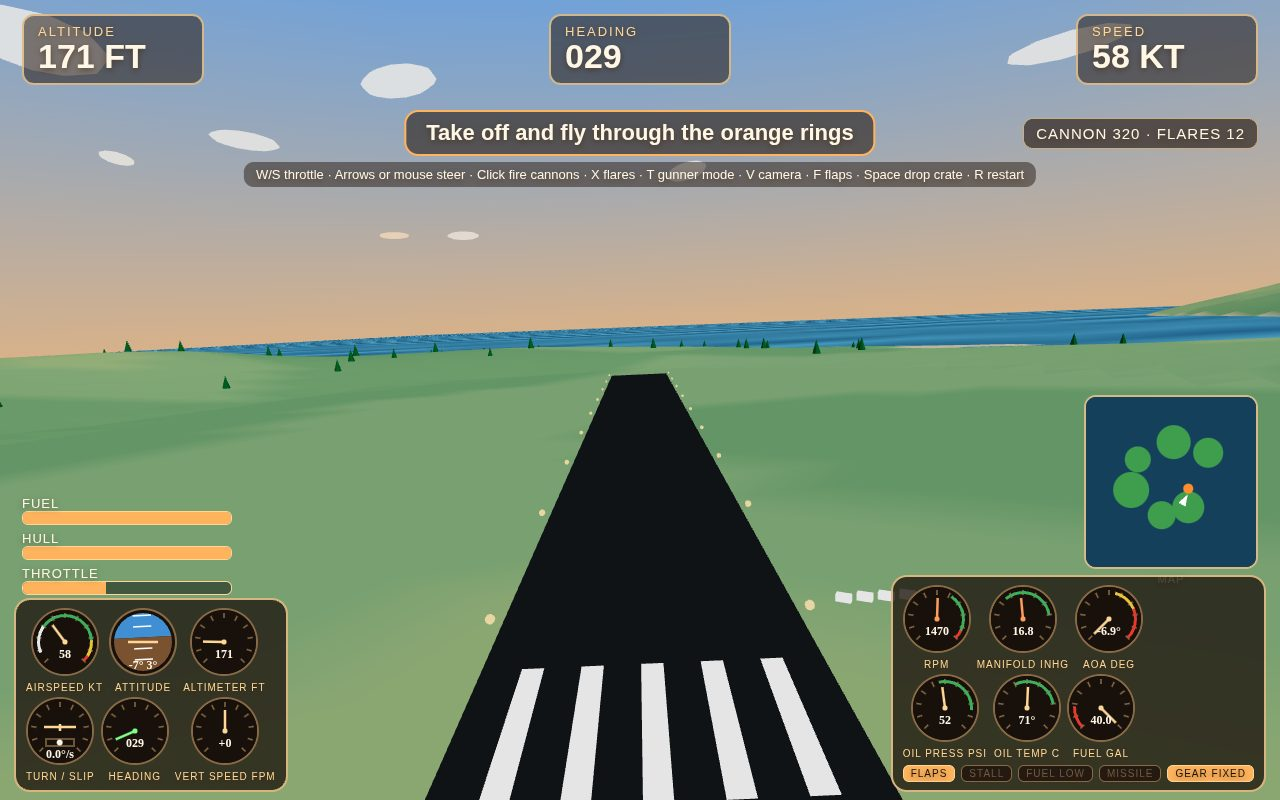
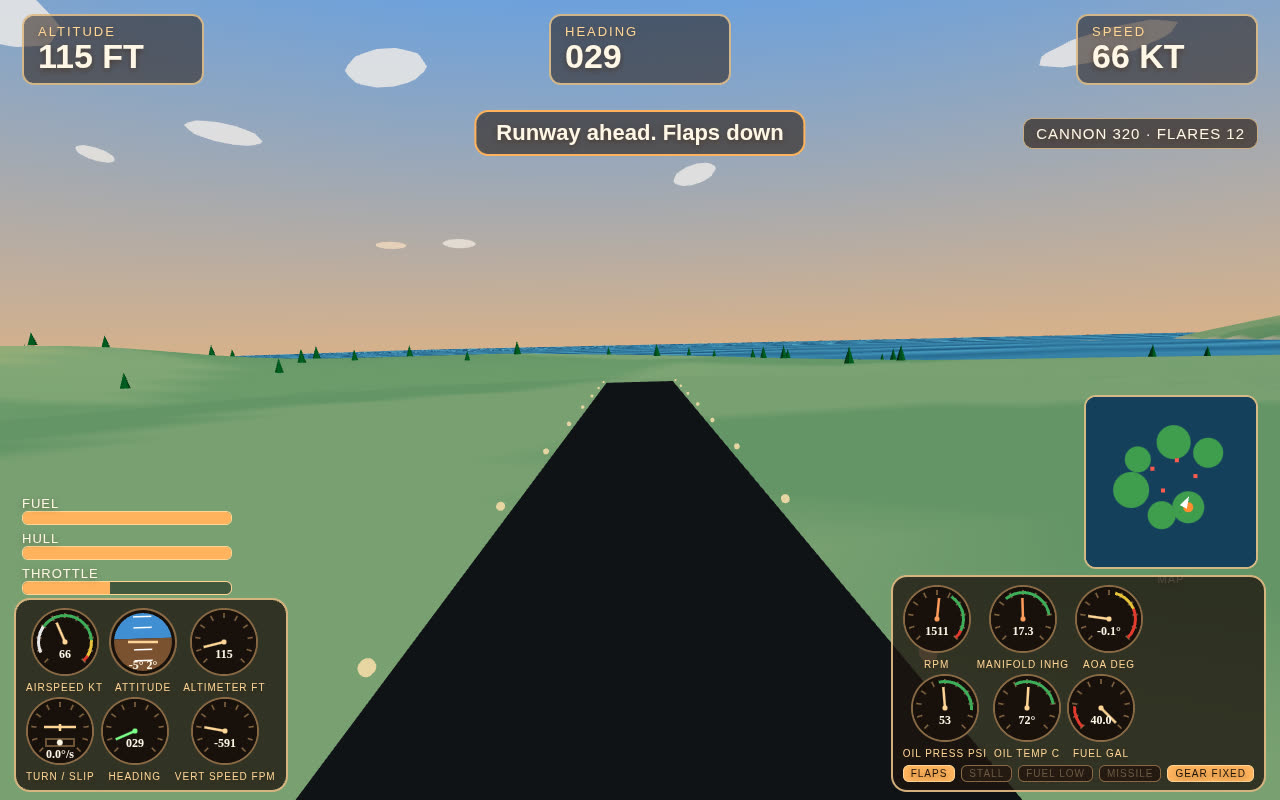
Reshoot the four stills so the sortie reads at a glance.
The cover lines the gunship up on an orange ring, the cockpit looks down the runway with flaps out, the gunner sight sits on the west battery, and the grade sits above the aircraft on the strip. Altitude, speed, and heading stay in frame.

diff --git a/game/src/shots.js b/game/src/shots.js
@@ -6,67 +6,67 @@ import { RING_PATH } from './world-props.js';
 export function applyShotPose(shot, flight, cameraRig, missions, combat) {
   if (!shot) return false;
   if (shot === 'cover') {
-    flight.position.set(-230, 265, -120);
-    flight.heading = Math.atan2(-300 - flight.position.x, 320 - flight.position.z);
-    flight.pitch = -0.04;
-    flight.roll = -0.18;
-    flight.speed = 46;
-    flight.throttle = 0.8;
-    flight.rpm = 0.8;
+    const ring = RING_PATH[0];
+    const heading = 0.15;
+    const lead = 155;
+    flight.position.set(ring.x - Math.sin(heading) * lead, ring.y + 8, ring.z - Math.cos(heading) * lead);
+    flight.heading = heading;
+    flight.pitch = -0.03;
+    flight.roll = -0.32;
+    flight.speed = 48;
+    flight.throttle = 0.72;
+    flight.rpm = 0.72;
     flight.airborne = true;
-    missions.stage = 1;
-    missions.ringIndex = RING_PATH.length;
-    missions.message = 'Destroy the installations. T gunner mode, X flares';
-    if (combat) {
-      combat.stageTracers(flight, new THREE.Vector3(-700, 30, -500));
-      combat.boom.position.set(-700, 24, -500);
-      combat.boomLife = 0.45;
-      combat.boom.material.opacity = 0.8;
-      combat.boom.scale.set(2.2, 2.2, 2.2);
-    }
+    missions.stage = 0;
+    missions.ringIndex = 0;
+    missions.message = 'Light the rings · 1 of 5';
     cameraRig.mode = 'chase';
-    cameraRig.distance = 30;
-    cameraRig.elevation = 0.38;
-    cameraRig.lookAhead = 18;
+    cameraRig.distance = 26;
+    cameraRig.elevation = 0.34;
+    cameraRig.lookAhead = 16;
     cameraRig.ready = false;
     return true;
   }
   if (shot === 'cockpit') {
     const r = WORLD.runway;
-    flight.position.set(r.x - Math.sin(r.heading) * 300, r.height + 45, r.z - Math.cos(r.heading) * 300);
+    flight.position.set(r.x - Math.sin(r.heading) * 200, r.height + 28, r.z - Math.cos(r.heading) * 200);
     flight.heading = r.heading;
-    flight.pitch = -0.12;
-    flight.roll = 0.05;
-    flight.speed = 30;
-    flight.throttle = 0.4;
-    flight.rpm = 0.4;
+    flight.pitch = -0.09;
+    flight.roll = 0.03;
+    flight.speed = 34;
+    flight.throttle = 0.42;
+    flight.rpm = 0.42;
     flight.airborne = true;
     flight.flaps = true;
+    flight.verticalSpeed = -3;
+    missions.stage = 3;
+    missions.message = 'Runway ahead. Flaps down';
     cameraRig.mode = 'cockpit';
     return true;
   }
   if (shot === 'gunner') {
-    flight.position.set(-362, 58, 272);
-    flight.heading = Math.atan2(-300 - flight.position.x, 320 - flight.position.z);
-    flight.pitch = 0.02;
-    flight.roll = -0.42;
-    flight.speed = 46;
-    flight.throttle = 0.7;
-    flight.rpm = 0.7;
+    const target = new THREE.Vector3(-300, 16, 320);
+    flight.position.set(target.x + 42, 34, target.z + 28);
+    flight.heading = Math.atan2(target.x - flight.position.x, target.z - flight.position.z);
+    flight.pitch = -0.12;
+    flight.roll = -0.2;
+    flight.speed = 40;
+    flight.throttle = 0.64;
+    flight.rpm = 0.64;
     flight.airborne = true;
     missions.stage = 1;
     missions.ringIndex = RING_PATH.length;
-    missions.message = 'Gunner mode. Autopilot on. Click fires the side cannons';
+    missions.message = 'Silence the guns · AAA battery west';
     if (combat) {
       combat.gunner = true;
       combat.mouseX = 640;
-      combat.mouseY = 380;
-      combat.stageTracers(flight, new THREE.Vector3(-300, 16, 320));
-      combat.boom.position.set(-300, 14, 320);
-      combat.boomLife = 0.45;
-      combat.boom.material.opacity = 0.8;
-      combat.boom.scale.set(2, 2, 2);
-      cameraRig.aimPoint = new THREE.Vector3(-300, 16, 320);
+      combat.mouseY = 400;
+      combat.stageTracers(flight, target);
+      combat.boom.position.copy(target);
+      combat.boomLife = 0.42;
+      combat.boom.material.opacity = 0.7;
+      combat.boom.scale.set(1.4, 1.4, 1.4);
+      cameraRig.aimPoint = target;
     }
     cameraRig.mode = 'gunner';
     cameraRig.ready = false;
@@ -74,7 +74,7 @@ export function applyShotPose(shot, flight, cameraRig, missions, combat) {
   }
   if (shot === 'debrief') {
     const r = WORLD.runway;
-    flight.position.set(r.x - Math.sin(r.heading) * 120, r.height + 1.2, r.z - Math.cos(r.heading) * 120);
+    flight.position.set(r.x - Math.sin(r.heading) * 80, r.height + 1.2, r.z - Math.cos(r.heading) * 80);
     flight.heading = r.heading;
     flight.pitch = 0;
     flight.roll = 0;
@@ -82,15 +82,18 @@ export function applyShotPose(shot, flight, cameraRig, missions, combat) {
     flight.throttle = 0;
     flight.rpm = 0.08;
     flight.airborne = false;
+    flight.landed = true;
     flight.fuel = 62;
     flight.hull = 94;
     missions.stage = 3;
     missions.done = true;
     missions.grade = 'S';
     missions.score = 2480;
-    missions.message = 'Sortie complete. Grade S. Score 2480';
+    missions.message = 'Grade S · Score 2480';
     cameraRig.mode = 'chase';
-    cameraRig.distance = 26;
+    cameraRig.distance = 30;
+    cameraRig.elevation = 0.55;
+    cameraRig.lookAhead = 0;
     cameraRig.ready = false;
     return true;
   }

diff --git a/game/index.html b/game/index.html
@@ -48,7 +48,7 @@
   #hitmark { left: 50%; top: 50%; width: 16px; height: 16px; margin: -8px 0 0 -8px; border: 2px solid #fff7e6; transform: rotate(45deg); display: none; }
   #arrow { width: 0; height: 0; border-left: 9px solid transparent; border-right: 9px solid transparent; border-bottom: 16px solid #ff8c2e; filter: drop-shadow(0 2px 2px rgba(0,0,0,.55)); display: none; }
   #arrow-dist { font-size: 12px; letter-spacing: 1px; color: #ffd696; display: none; transform: translate(-50%, 0); }
-  #message.show-grade { font-size: 46px; letter-spacing: 1px; background: rgba(38,26,18,.72); border: 2px solid #ffb35c; border-radius: 16px; padding: 16px 28px; }
+  #message.show-grade { top: 28%; font-size: 42px; letter-spacing: 1px; background: rgba(38,26,18,.78); border: 2px solid #ffb35c; border-radius: 16px; padding: 12px 22px; }
   #brief { inset: 0; display: flex; align-items: center; justify-content: center; background: linear-gradient(180deg, rgba(40, 18, 8, 0.28), rgba(40, 18, 8, 0.45)); pointer-events: none; }
   .brief-card { width: min(560px, calc(100% - 40px)); background: rgba(38,26,18,.82); border: 2px solid rgba(255,214,150,.85); border-radius: 18px; padding: 22px 26px 18px; text-align: center; color: #fff7e6; }
   .brief-kicker { letter-spacing: 4px; color: #ffd696; font-size: 13px; }
